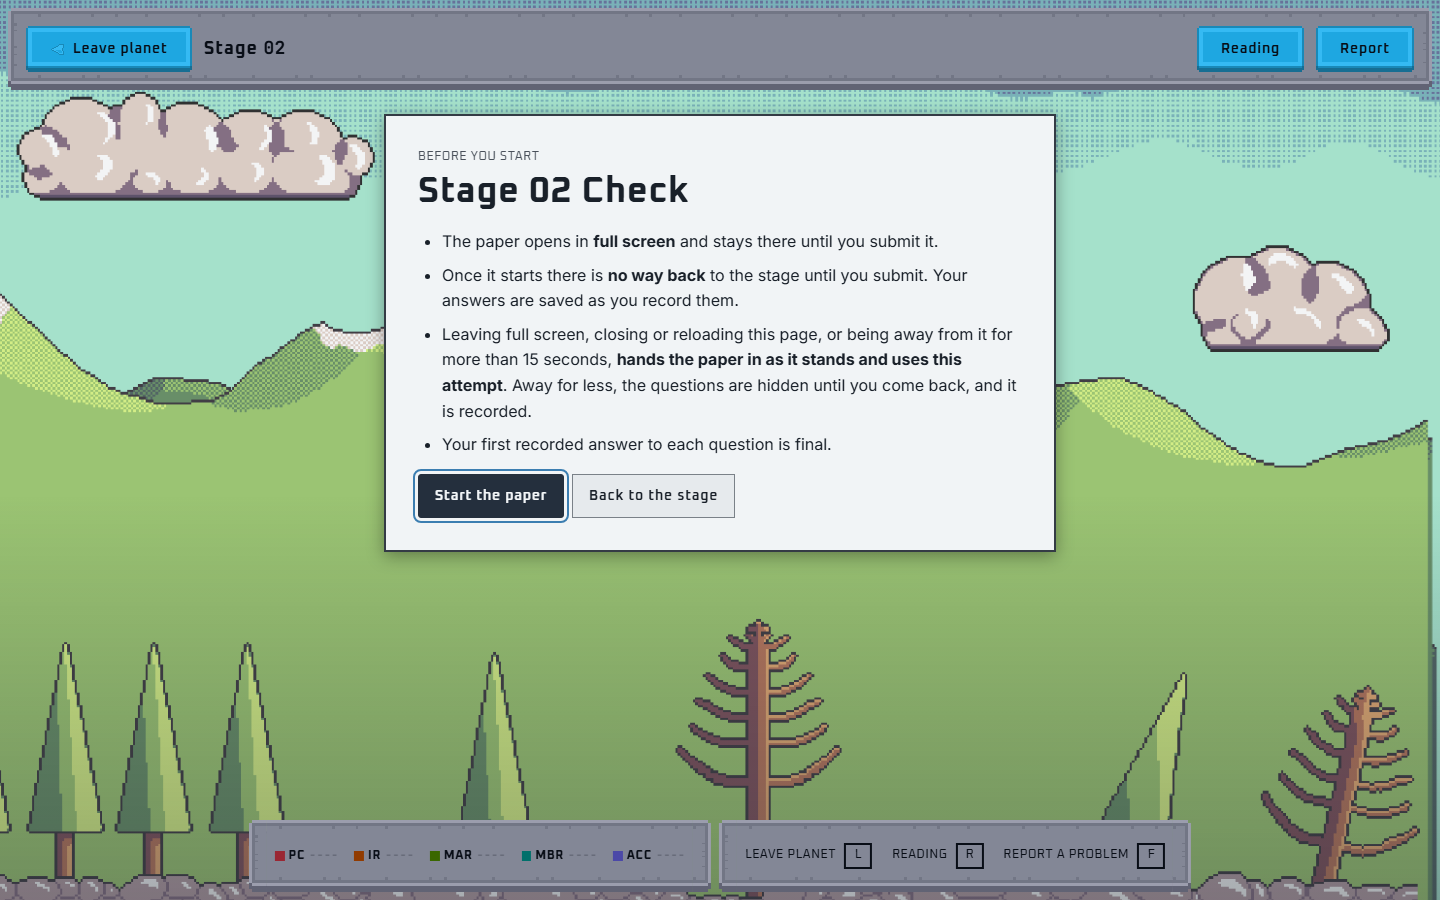
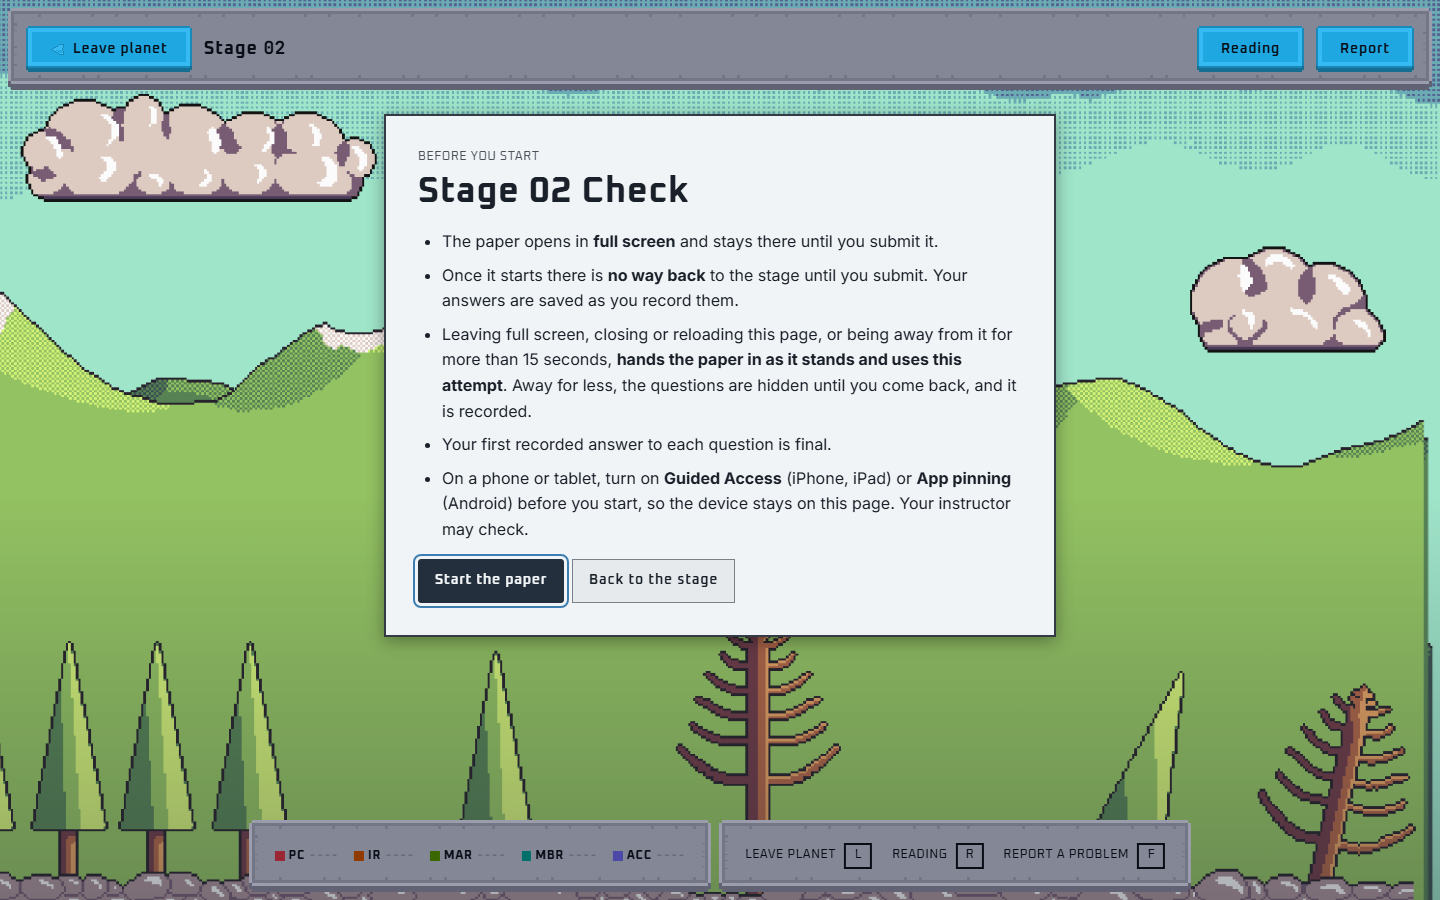
feat(web): every paper's start prompt asks for Guided Access or App pinning
Instructor ruling, 15 Oct 2026 (ANTI-CHEAT.md 6.1): one more rule on the
start prompt of every stage check, moon check and exam. Words only; the
page cannot check it. The gate also asserts Start stays clear of the
biome's bottom bar at 380 once the longer prompt is scrolled.

diff --git a/design/specs/web-stage-check.spec.ts b/design/specs/web-stage-check.spec.ts
@@ -197,6 +197,24 @@ test.describe("sitting a paper (instructor rulings 3 and 4, 30 Sep and 6 Oct 202
     await expect(page.getByRole("button", { name: "Start the paper", exact: true })).toBeFocused();
   });
 
+  test("every paper's prompt asks a phone to be locked to the page (instructor, 15 Oct 2026)", async ({ page }, info) => {
+    await prompt(page);
+    const rule = page.locator("[data-runner=ready] [data-rule=device-lock]");
+    await expect(rule).toContainText(/Guided Access/);
+    await expect(rule).toContainText(/App pinning/);
+    await expect(rule).toBeVisible();
+    // A longer prompt must not push Start under the biome's bottom bar at 380.
+    const start = page.getByRole("button", { name: "Start the paper", exact: true });
+    await page.evaluate(() => window.scrollTo(0, document.documentElement.scrollHeight));
+    const covered = await start.evaluate((b) => {
+      const r = b.getBoundingClientRect();
+      const hit = document.elementFromPoint(r.left + r.width / 2, r.bottom - 2);
+      return hit && (hit === b || b.contains(hit)) ? null : String(hit?.className ?? hit?.tagName);
+    });
+    expect(covered, "Start is covered by").toBeNull();
+    await page.screenshot({ path: `design/templates/web/stage-check/current-start-scrolled${wide(info) ? "" : "-380"}.png` });
+  });
+
   test("the prompt and the cover pass the gate: nothing clipped, AA, tokens", async ({ page }) => {
     await prompt(page);
     expect(await clippedElements(page, ROUTE), "prompt clipped").toEqual([]);

diff --git a/apps/web/src/components/AttemptRunner.tsx b/apps/web/src/components/AttemptRunner.tsx
@@ -1120,6 +1120,11 @@ function StartPrompt({
           attempt</strong>. Away for less, the questions are hidden until you come back, and it is recorded.
         </li>
         <li>Your first recorded answer to each question is final.</li>
+        {/* Instructor, 15 Oct 2026 (docs/ANTI-CHEAT.md §6.1): words only; a page cannot check it. */}
+        <li data-rule="device-lock">
+          On a phone or tablet, turn on <strong>Guided Access</strong> (iPhone, iPad) or <strong>App pinning</strong>{" "}
+          (Android) before you start, so the device stays on this page. Your instructor may check.
+        </li>
       </ul>
       {refused && (
         <p className="check-refused" role="alert">
